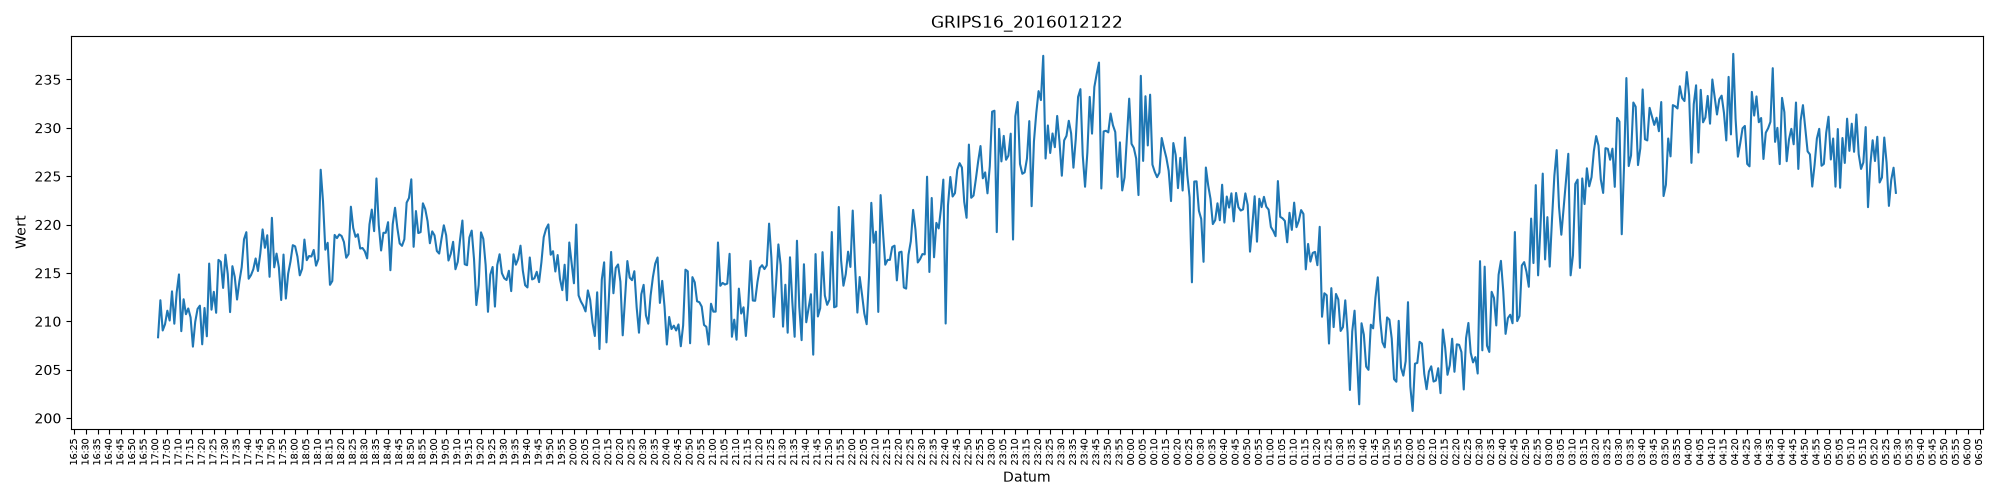
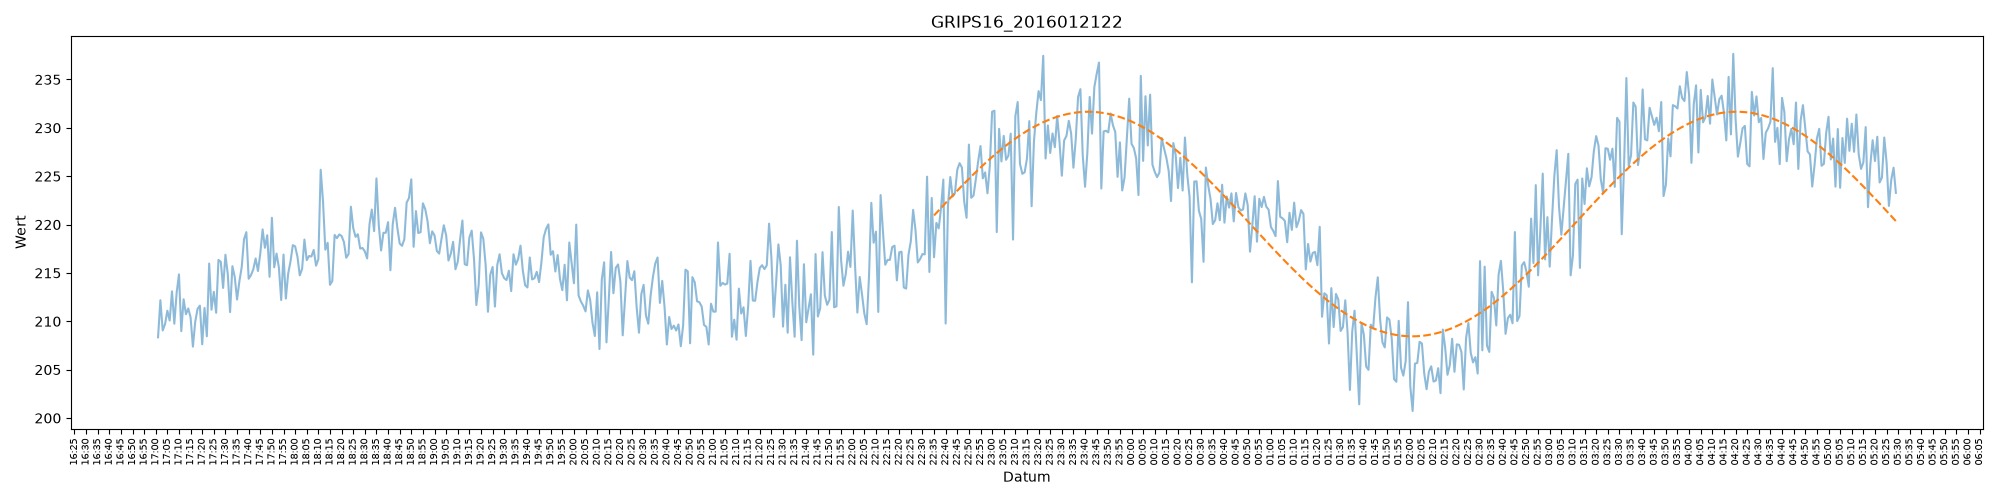
mit sinus fit

Changed region(s): [[0.062, 0.18, 0.682, 0.69], [0.651, 0.15, 0.961, 0.78]]

diff --git a/exploration.py b/exploration.py
@@ -3,6 +3,8 @@ from pathlib import Path
 import pandas as pd
 import matplotlib.pyplot as plt
 import matplotlib.dates as mdates
+import numpy as np
+from scipy.optimize import curve_fit
 
 # Unterordner mit den CSV-Dateien
 input_dir = Path("03_LueckenloseDaten")
@@ -11,12 +13,53 @@ input_dir = Path("03_LueckenloseDaten")
 output_dir = Path("plots")
 output_dir.mkdir(exist_ok=True)
 
+fit_start_times = {
+    "GRIPS6_2016012122": "22:28:00",
+    "GRIPS7_2016012122": "22:25:00",
+    "GRIPS16_2016012122": "22:35:00",
+    "GRIPS6_2016012930": "23:35:00",
+    "GRIPS7_2016012930": "23:30:00",
+    "GRIPS16_2016012930": "23:50:00",
+}
+frequency_guesses = {
+    "GRIPS6_2016012122": 1 / 16200,
+    "GRIPS7_2016012122": 1 / 16200,
+    "GRIPS16_2016012122": 1 / 16200,
+    "GRIPS6_2016012930": 1 / 16200,
+    "GRIPS7_2016012930": 1 / 16200,
+    "GRIPS16_2016012930": 1 / 16200,
+}
+def sine_func(t, amplitude, frequency, phase, offset):
+    """Return a sine curve evaluated at t with the given parameters."""
+    return amplitude * np.sin(2 * np.pi * frequency * t + phase) + offset
+
 for csv_path in input_dir.glob("*.csv"):
     df = pd.read_csv(csv_path, parse_dates=["Zulu"])
     df = df.set_index("Zulu")
 
     fig, ax = plt.subplots(figsize=(20, 5))
-    ax.plot(df.index, df["Temp"])
+    ax.plot(df.index, df["Temp"], alpha=0.5)
+
+    fit_start_time = fit_start_times.get(csv_path.stem)
+
+    if fit_start_time is not None:
+        fit_df = df.between_time(fit_start_time, df.index[-1].strftime("%H:%M:%S"))
+
+        if len(fit_df) > 3:
+            t_seconds = (fit_df.index - fit_df.index[0]).total_seconds().to_numpy()
+            y_values = fit_df["Temp"].to_numpy()
+
+            amplitude_guess = (y_values.max() - y_values.min()) / 2
+            offset_guess = y_values.mean()
+            frequency_guess = frequency_guesses.get(csv_path.stem, 1 / 16200)
+            initial_guess = [amplitude_guess, frequency_guess, 0, offset_guess]
+
+            params, _ = curve_fit(sine_func, t_seconds, y_values, p0=initial_guess, maxfev=10000)
+
+            fit_values = sine_func(t_seconds, *params)
+            ax.plot(fit_df.index, fit_values, label="Sinus-Fit", linestyle="--")
+    else:
+        print(f"Keine Fit-Startzeit fuer {csv_path.stem} definiert, ueberspringe Fit.")
 
     # Tick fuer jede Minute
     ax.xaxis.set_major_locator(mdates.MinuteLocator(interval=5))
